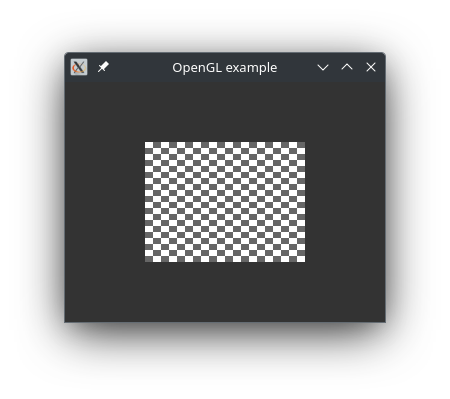
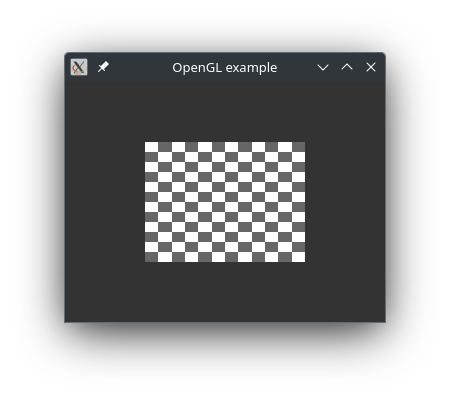
Use fewer chequer squares

Changed region(s): [[0.3111, 0.3308, 0.6844, 0.6617]]

diff --git a/opengl.tex b/opengl.tex
@@ -442,10 +442,10 @@ GLuint idx;
             \begin{minted}{C}
 // ...
 GLfloat vertices[] = {
-  -0.5f, -0.5f,  0.0f,  0.0f,  0.0f,
-   0.5f, -0.5f,  0.0f, 10.0f,  0.0f,
-  -0.5f,  0.5f,  0.0f,  0.0f, 10.0f,
-   0.5f,  0.5f,  0.0f, 10.0f, 10.0f
+  -0.5f, -0.5f,  0.0f, 0.0f, 0.0f,
+   0.5f, -0.5f,  0.0f, 6.0f, 0.0f,
+  -0.5f,  0.5f,  0.0f, 0.0f, 6.0f,
+   0.5f,  0.5f,  0.0f, 6.0f, 6.0f
 };
 
 float chequer[] = {

diff --git a/opengl-example.c b/opengl-example.c
@@ -29,10 +29,10 @@ GLuint vbo;
 GLuint idx;
 
 GLfloat vertices[] = {
-  -0.5f, -0.5f,  0.0f,  0.0f,  0.0f,
-   0.5f, -0.5f,  0.0f, 10.0f,  0.0f,
-  -0.5f,  0.5f,  0.0f,  0.0f, 10.0f,
-   0.5f,  0.5f,  0.0f, 10.0f, 10.0f
+  -0.5f, -0.5f,  0.0f, 0.0f, 0.0f,
+   0.5f, -0.5f,  0.0f, 6.0f, 0.0f,
+  -0.5f,  0.5f,  0.0f, 0.0f, 6.0f,
+   0.5f,  0.5f,  0.0f, 6.0f, 6.0f
 };
 
 unsigned int indices[] = {0, 1, 3, 2};
